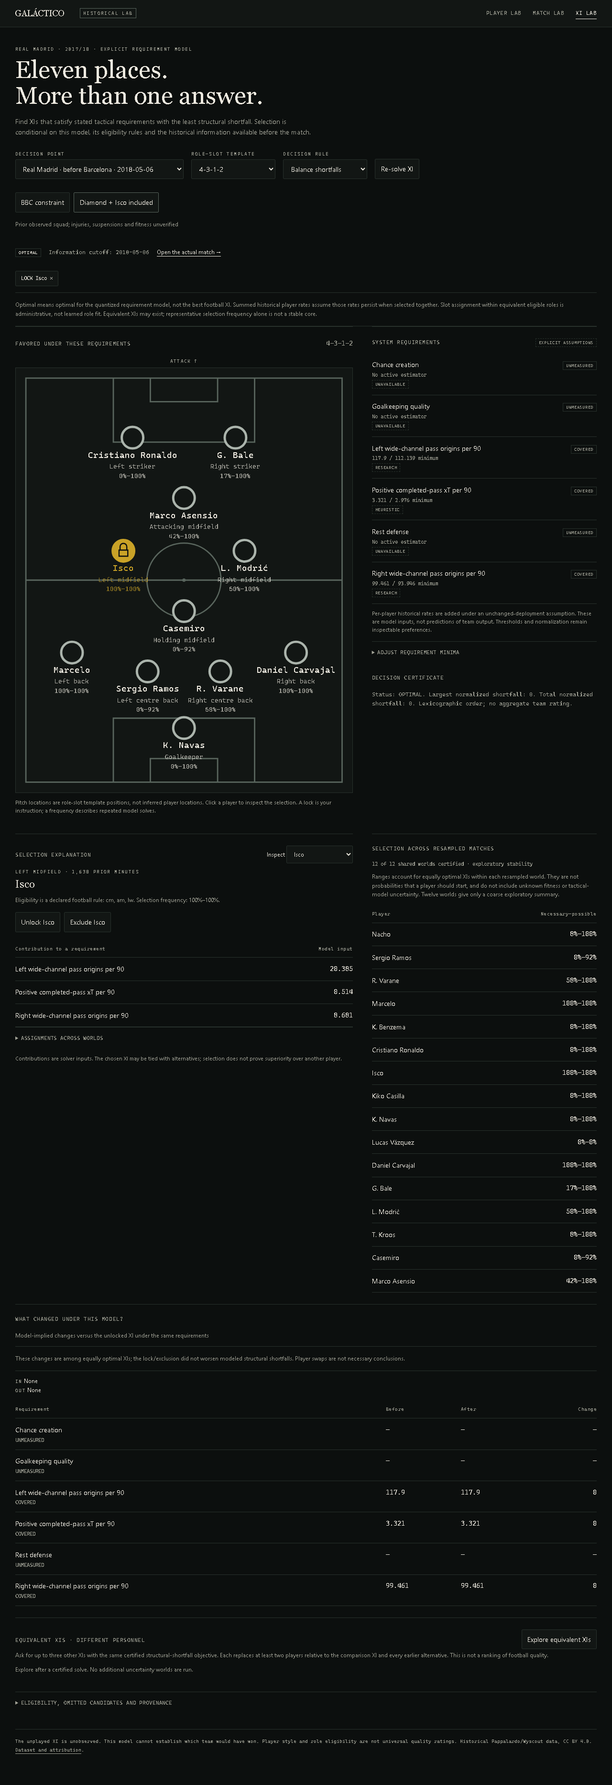
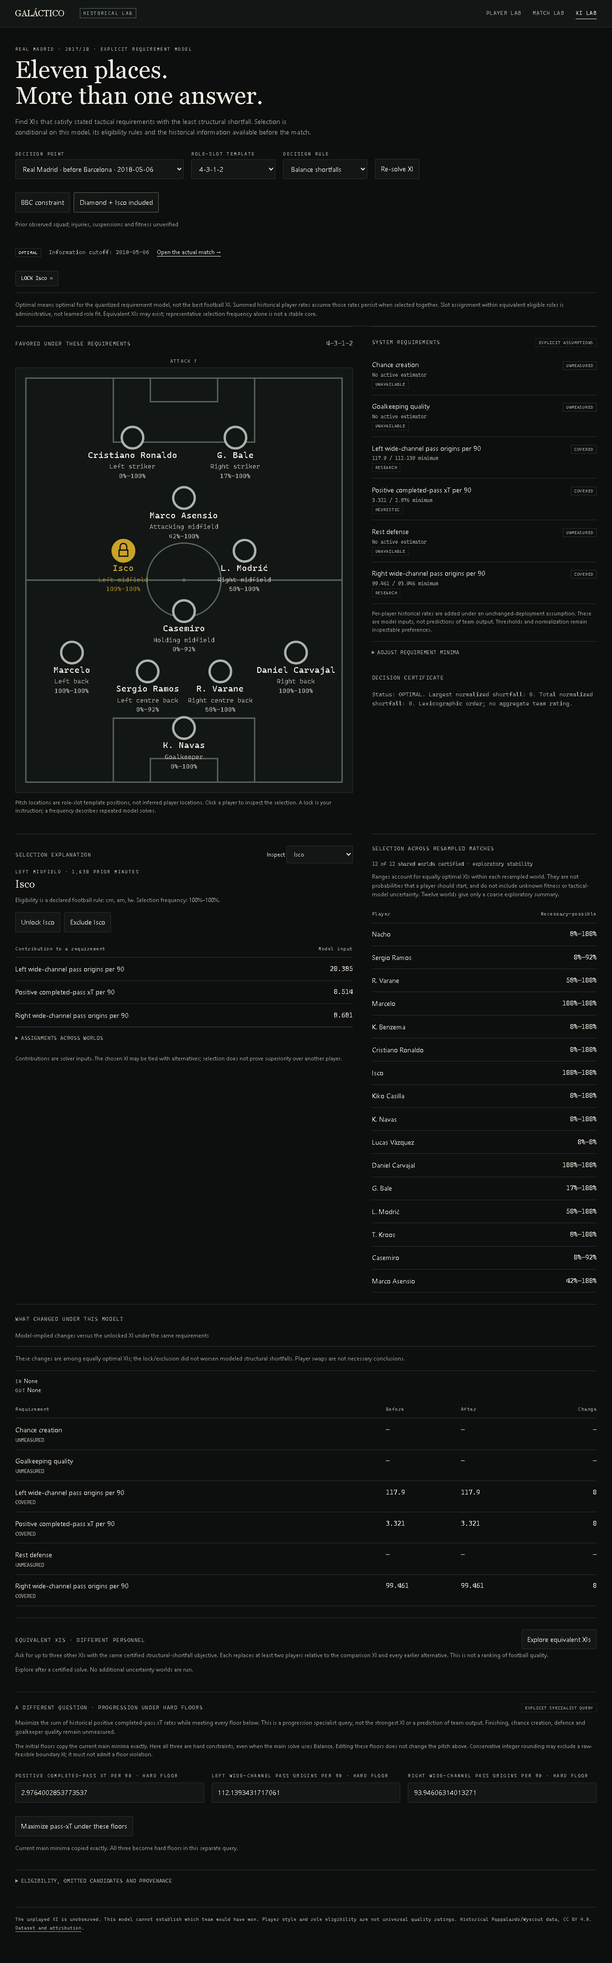
feat(web): ship explicit hard-floor progression explorer

diff --git a/web/xi.html b/web/xi.html
@@ -11,19 +11,56 @@
 <div class="split"><section class="panel selection-detail"><div class="panel-head"><h2>Selection explanation</h2><label class="small">Inspect <select id="candidate" aria-label="Inspect squad player"></select></label></div><div id="selected-detail" aria-live="polite"></div></section><section class="panel"><h2>Selection across resampled matches</h2><p id="world-count" class="progress-note">12 shared worlds · exploratory stability</p><p class="small subtle">Ranges account for equally optimal XIs within each resampled world. They are not probabilities that a player should start, and do not include unknown fitness or tactical-model uncertainty. Twelve worlds give only a coarse exploratory summary.</p><div id="frequencies"></div></section></div>
 <section id="changes-panel" class="panel hidden"><h2>What changed under this model?</h2><div id="changes"></div></section>
 <section id="alternatives-panel" class="panel" aria-labelledby="alternatives-title"><div class="panel-head"><h2 id="alternatives-title">Equivalent XIs · different personnel</h2><button id="explore-alternatives" disabled>Explore equivalent XIs</button></div><p class="small subtle">Ask for up to three other XIs with the same certified structural-shortfall objective. Each replaces at least two players relative to the comparison XI and every earlier alternative. This is not a ranking of football quality.</p><p id="alternatives-status" class="small subtle" role="status">Explore after a certified solve. No additional uncertainty worlds are run.</p><div id="alternatives-body" class="hidden"><p id="alternatives-claim" class="notice small"></p><p class="figure-note">The comparison XI below belongs to this exploration response. Tied solves may choose a different representative from the pitch above. Alternatives have no selection-frequency or superiority claim.</p><div id="alternatives-ledger" class="alternative-grid"></div><details><summary>Alternative search certificate and provenance</summary><pre id="alternatives-provenance"></pre></details></div></section>
+<section id="tradeoff-panel" class="panel" aria-labelledby="tradeoff-title">
+<div class="panel-head"><h2 id="tradeoff-title">A different question · progression under hard floors</h2><span class="badge heuristic">Explicit specialist query</span></div>
+<p class="small subtle">Maximize the sum of historical positive completed-pass xT rates while meeting every floor below. This is a progression specialist query, not the strongest XI or a prediction of team output. Finishing, chance creation, defence and goalkeeper quality remain unmeasured.</p>
+<p class="figure-note">The initial floors copy the current main minima exactly. Here all three are hard constraints, even when the main solve uses Balance. Editing these floors does not change the pitch above. Conservative integer rounding may exclude a raw-feasible boundary XI; it must not admit a floor violation.</p>
+<div id="tradeoff-inputs" class="toolbar tradeoff-controls"></div><button id="solve-tradeoff" disabled>Maximize pass-xT under these floors</button>
+<p id="tradeoff-status" class="small subtle tradeoff-status" role="status">Solve the main scenario before asking a hard-floor question.</p>
+<div id="tradeoff-body" class="hidden"><div class="status-line"><span id="tradeoff-solver-status" class="badge"></span><span id="tradeoff-certification" class="badge"></span></div>
+<p id="tradeoff-claim" class="notice small"></p><div id="tradeoff-objective" class="small"></div><p id="tradeoff-infeasible" class="notice small hidden"></p>
+<div class="split equal"><section><h3>Query-owned XI</h3><p class="figure-note">These assignments belong only to this response. They have no selection-frequency, general-quality or superiority claim.</p>
+<table id="tradeoff-roster" class="ledger"><caption class="sr-only">Hard-floor query role-slot assignments</caption><thead><tr><th>Slot</th><th>Player</th></tr></thead><tbody></tbody></table></section>
+<section><h3>Hard-floor ledger</h3><table id="tradeoff-requirements" class="ledger"><thead><tr><th>Requirement</th><th>Achieved ≈ / exact floor</th></tr></thead><tbody></tbody></table></section></div>
+<details><summary>Hard-floor query certificate and provenance</summary><p id="tradeoff-warnings" class="small subtle"></p><pre id="tradeoff-provenance"></pre></details></div></section>
 <details><summary>Eligibility, omitted candidates and provenance</summary><pre id="provenance"></pre></details><footer class="provenance">The unplayed XI is unobserved. This model cannot establish which team would have won. Player style and role eligibility are not universal quality ratings. Historical Pappalardo/Wyscout data, CC BY 4.0. <a href="https://doi.org/10.6084/m9.figshare.c.4415000">Dataset and attribution</a>.</footer></div></main>
 <script>
 const $=s=>document.querySelector(s),esc=v=>String(v??'').replace(/[&<>"']/g,c=>({'&':'&amp;','<':'&lt;','>':'&gt;','"':'&quot;',"'":'&#39;'}[c]));
 const num=(v,d=3)=>v===null||v===undefined||!Number.isFinite(Number(v))?'—':Number(v).toLocaleString(undefined,{maximumFractionDigits:d});
 const pct=v=>v==null?'—':num(v*100,0)+'%';
 async function api(url,body){const r=await fetch(url,body?{method:'POST',headers:{'Content-Type':'application/json'},body:JSON.stringify(body)}:undefined),d=await r.json();if(!r.ok)throw new Error(typeof d.detail==='string'?d.detail:JSON.stringify(d.detail??d));return d;}
-let result=null,scenarioMeta=null,selectedPlayer=null,locks=new Set(),excludes=new Set(),minimums={},busy=false,requestVersion=0,solvedInput=null,alternativeVersion=0,alternativeBusy=false,minimumsDirty=false;
+let result=null,scenarioMeta=null,selectedPlayer=null,locks=new Set(),excludes=new Set(),minimums={},busy=false,requestVersion=0,solvedInput=null,alternativeVersion=0,alternativeBusy=false,minimumsDirty=false,tradeoffVersion=0,tradeoffBusy=false;
 function updateAlternativeButton(){$('#explore-alternatives').disabled=busy||alternativeBusy||minimumsDirty||result?.solution_status!=='OPTIMAL'||!solvedInput;}
 function invalidateAlternatives(dirty=false){alternativeVersion++;alternativeBusy=false;minimumsDirty=dirty;$('#alternatives-body').classList.add('hidden');$('#alternatives-ledger').replaceChildren();$('#alternatives-provenance').textContent='';$('#alternatives-claim').textContent='';$('#alternatives-status').textContent=dirty?'Apply the edited minima and re-solve before exploring.':'Explore after a certified solve. No additional uncertainty worlds are run.';updateAlternativeButton();}
 function renderAlternatives(data){const search=data.provenance?.alternative_search||{},names=new Map((data.candidates||[]).map(p=>[Number(p.player_id),p.name]));for(const a of data.assignments||[])names.set(Number(a.player_id),a.name);const playerNames=ids=>(ids||[]).map(id=>esc(names.get(Number(id))||id)).join(', ')||'None';const rows=[{...data,comparison:true},...(data.alternatives||[])];$('#alternatives-status').textContent=(search.status||'Search status unavailable')+' · '+(search.returned??data.alternatives?.length??0)+' of '+(search.requested??3)+' requested alternatives returned.';$('#alternatives-claim').textContent=search.claim||'No search interpretation was supplied.';$('#alternatives-ledger').innerHTML=rows.map((xi,i)=>'<article class="alternative-xi" data-alternative="'+i+'" aria-labelledby="alternative-heading-'+i+'"><div class="eyebrow">'+(i===0?'Response baseline':'Equivalent objective · not a ranking')+'</div><h3 id="alternative-heading-'+i+'">'+(i===0?'Comparison XI':'Alternative '+i)+'</h3><span class="badge">'+esc(xi.solution_status)+'</span><p class="small mono alternative-objective">Shortfall vector '+esc(JSON.stringify(xi.objective_vector||[]))+'</p>'+(i===0?'<p class="small subtle alternative-delta">All personnel changes are measured against this XI.</p>':'<p class="small alternative-delta"><span class="label">In</span> '+playerNames(xi.incoming_player_ids)+'<br><span class="label">Out</span> '+playerNames(xi.outgoing_player_ids)+'<br><span class="subtle">'+esc(xi.player_changes)+' players replaced</span></p>')+'<table class="ledger alternative-roster"><caption class="sr-only">'+(i===0?'Comparison XI':'Alternative '+i)+' role-slot assignments</caption><thead><tr><th>Slot</th><th>Player</th></tr></thead><tbody>'+(xi.assignments||[]).map(a=>'<tr data-player="'+esc(a.player_id)+'"><td>'+esc(a.slot_label||a.slot_id)+'</td><td>'+esc(a.name)+(a.locked?' <span class="badge">Locked</span>':'')+'</td></tr>').join('')+'</tbody></table><h4 class="label">Requirement inputs · not team predictions</h4><table class="ledger alternative-requirements"><thead><tr><th>Requirement</th><th>Achieved / min<br>Shortfall</th></tr></thead><tbody>'+(xi.requirements||[]).map(r=>'<tr><td>'+esc(r.label)+'<div class="detail">'+esc(r.status)+'</div></td><td class="mono">'+(r.achieved==null?(r.status==='UNMEASURED'?'Unmeasured':'Not evaluated'):num(r.achieved,6)+' / '+num(r.minimum,6)+'<br>'+num(r.deficit,6))+'</td></tr>').join('')+'</tbody></table></article>').join('');$('#alternatives-provenance').textContent=JSON.stringify({provenance:data.provenance,baseline:{assignments:data.assignments,requirements:data.requirements,objective_vector:data.objective_vector},alternatives:data.alternatives},null,2);$('#alternatives-body').classList.remove('hidden');}
 async function exploreAlternatives(){if(busy||alternativeBusy||minimumsDirty||!solvedInput||result?.solution_status!=='OPTIMAL')return;const version=++alternativeVersion,solveVersion=requestVersion;alternativeBusy=true;updateAlternativeButton();$('#alternatives-status').textContent='Searching the certified optimum for personnel-diverse witnesses…';$('#alternatives-body').classList.add('hidden');try{const data=await api('/api/xi/alternatives',{...solvedInput,alternative_count:3,minimum_player_changes:2});if(version!==alternativeVersion||solveVersion!==requestVersion)return;renderAlternatives(data);}catch(error){if(version!==alternativeVersion||solveVersion!==requestVersion)return;$('#alternatives-status').textContent='Alternatives unavailable: '+error.message;}finally{if(version===alternativeVersion){alternativeBusy=false;updateAlternativeButton();}}}
 $('#explore-alternatives').onclick=exploreAlternatives;
-$('#minimum-inputs').addEventListener('input',()=>invalidateAlternatives(true));
+const tradeoffRequirements=['progression','left_pass_origins','right_pass_origins'];
+function tradeoffInputsValid(){const inputs=[...$('#tradeoff-inputs').querySelectorAll('input')];return inputs.length===tradeoffRequirements.length&&inputs.every(input=>input.value.trim()!==''&&input.validity.valid&&Number.isFinite(input.valueAsNumber));}
+function updateTradeoffButton(){$('#solve-tradeoff').disabled=busy||tradeoffBusy||minimumsDirty||!solvedInput||!tradeoffInputsValid();}
+function invalidateTradeoff(message='Floors changed. Run the query again to evaluate this instruction.'){tradeoffVersion++;tradeoffBusy=false;$('#tradeoff-body').classList.add('hidden');$('#tradeoff-roster tbody').replaceChildren();$('#tradeoff-requirements tbody').replaceChildren();$('#tradeoff-provenance').textContent='';$('#tradeoff-status').textContent=message;updateTradeoffButton();}
+function resetTradeoffInputs(){const rows=new Map((result.requirements||[]).map(r=>[r.requirement_id,r]));$('#tradeoff-inputs').innerHTML=tradeoffRequirements.map(id=>{const r=rows.get(id);return '<label class="control"><span class="label">'+esc(r?.label||id)+' · hard floor</span><input type="number" min="0" max="1000" step="any" required data-floor="'+esc(id)+'" value="'+esc(r?.minimum??'')+'"></label>';}).join('');invalidateTradeoff('Current main minima copied exactly. All three become hard floors in this separate query.');}
+function renderTradeoff(data){
+ const objective=data.objective||{},rows=data.assignments||[];
+ $('#tradeoff-solver-status').textContent=data.solution_status;
+ $('#tradeoff-certification').textContent=objective.certification||'NO_SOLUTION';
+ $('#tradeoff-claim').textContent=data.claim||'A specialist progression query under explicit hard floors; not a football-quality ranking.';
+ $('#tradeoff-status').textContent=data.solution_status+' · this response does not replace the main XI.';
+ const certificateRows=[['Raw historical-rate sum',objective.achieved,'Not evaluated'],['Quantized objective',objective.quantized_value,'Not evaluated'],['Quantized upper bound',objective.quantized_upper_bound,'Unavailable'],['Quantization-only rounding bound',objective.raw_rounding_error_bound,'Unavailable']];
+ $('#tradeoff-objective').innerHTML='<p class="mono">'+esc(objective.direction||'MAXIMIZE')+' '+esc(objective.label||objective.requirement_id||'Progression')+' <span class="subtle">('+esc(objective.metric||'see provenance')+')</span></p><dl style="display:grid;grid-template-columns:repeat(auto-fit,minmax(135px,1fr));gap:1rem;margin:1rem 0">'+certificateRows.map(([label,value,missing])=>'<div><dt class="label">'+esc(label)+'</dt><dd class="mono" style="margin:.4rem 0 0">'+(value==null?missing:'≈ '+num(value,6))+'</dd></div>').join('')+'</dl><p class="figure-note">Displays rounded to six decimals; exact values are in the certificate below. The rounding bound covers quantization only, not statistical uncertainty. OPTIMAL certifies the integer model, not football superiority.</p>';
+ $('#tradeoff-warnings').textContent=(data.warnings||[]).join(' ');
+ const reasons=data.infeasibility_reasons||[];
+ $('#tradeoff-infeasible').classList.toggle('hidden',rows.length>0);
+ $('#tradeoff-infeasible').textContent=reasons.join(' ')||(data.solution_status==='INFEASIBLE'?'No XI satisfies the conservative integer model of these hard floors and eligibility instructions. No floor was relaxed.':'No solution was returned; feasibility was not established.');
+ $('#tradeoff-roster tbody').innerHTML=rows.map(a=>'<tr data-player="'+esc(a.player_id)+'"><td>'+esc(a.slot_label||a.slot_id)+'</td><td>'+esc(a.name)+(a.locked?' <span class="badge">Locked</span>':'')+'</td></tr>').join('');
+ $('#tradeoff-requirements tbody').innerHTML=(data.requirements||[]).map(r=>'<tr data-requirement="'+esc(r.requirement_id)+'"><td>'+esc(r.label)+'<div class="detail">'+esc(r.status)+'</div><span class="badge">'+esc(r.evidence_class)+(r.hard?' · hard floor':'')+'</span></td><td class="mono">'+(r.achieved==null?(r.status==='UNMEASURED'?'Unmeasured':'Not evaluated'):'≈ '+num(r.achieved,6))+(r.status==='UNMEASURED'?'':' / <span class="tradeoff-floor">'+esc(String(r.minimum))+'</span>')+'</td></tr>').join('');
+ $('#tradeoff-provenance').textContent=JSON.stringify({formation:data.formation,floors:data.floors,objective:data.objective,provenance:data.provenance,requirements:data.requirements,assignments:data.assignments,omitted_candidates:data.omitted_candidates},null,2);
+ $('#tradeoff-body').classList.remove('hidden');
+}
+async function solveTradeoff(){if(busy||tradeoffBusy||minimumsDirty||!solvedInput||!tradeoffInputsValid())return;const version=++tradeoffVersion,solveVersion=requestVersion,floors={};for(const input of $('#tradeoff-inputs').querySelectorAll('input'))floors[input.dataset.floor]=input.valueAsNumber;const inputs={scenario_id:solvedInput.scenario_id,formation:solvedInput.formation,locks:[...solvedInput.locks],excludes:[...solvedInput.excludes],floors};tradeoffBusy=true;updateTradeoffButton();$('#tradeoff-body').classList.add('hidden');$('#tradeoff-roster tbody').replaceChildren();$('#tradeoff-status').textContent='Solving the progression query under all three hard floors…';try{const data=await api('/api/xi/tradeoff',inputs);if(version!==tradeoffVersion||solveVersion!==requestVersion)return;renderTradeoff(data);}catch(error){if(version!==tradeoffVersion||solveVersion!==requestVersion)return;$('#tradeoff-status').textContent='Hard-floor query unavailable: '+error.message;}finally{if(version===tradeoffVersion){tradeoffBusy=false;updateTradeoffButton();}}}
+$('#solve-tradeoff').onclick=solveTradeoff;
+$('#tradeoff-inputs').addEventListener('input',()=>invalidateTradeoff());
+$('#minimum-inputs').addEventListener('input',()=>{invalidateAlternatives(true);invalidateTradeoff('Apply the edited main minima and re-solve before asking a hard-floor question.');});
 function frequencyLabel(f){if(!f)return 'Not resampled';if(f.necessary_frequency!=null&&f.possible_frequency!=null)return pct(f.necessary_frequency)+'–'+pct(f.possible_frequency);return pct(f.selection_frequency);}
 function candidate(id){return (result?.candidates||[]).find(p=>Number(p.player_id)===Number(id));}
 function selectPlayer(id){selectedPlayer=Number(id);$('#candidate').value=String(id);renderPitch();renderDetail();}
@@ -38,7 +75,7 @@ function renderDetail(){const p=candidate(selectedPlayer);if(!p){$('#selected-de
 function renderConstraints(){renderPresets();const make=(id,type)=>'<button data-id="'+id+'" data-kind="'+type+'">'+type+' '+esc(candidate(id)?.name||id)+' ×</button>';$('#constraints').innerHTML=[...locks].map(id=>make(id,'LOCK')).concat([...excludes].map(id=>make(id,'EXCLUDE'))).join('');$('#constraints').querySelectorAll('button').forEach(b=>b.onclick=()=>{(b.dataset.kind==='LOCK'?locks:excludes).delete(Number(b.dataset.id));solve();});}
 function renderChanges(){const changes=result.what_changed;if(!changes){$('#changes-panel').classList.add('hidden');return;}$('#changes-panel').classList.remove('hidden');if(changes.comparison_available===false){$('#changes').innerHTML='<p class="notice small">'+esc(changes.claim)+'</p>';return;}const names=ids=>(ids||[]).map(id=>candidate(id)?.name||id).map(esc).join(', ')||'None';$('#changes').innerHTML='<p class="small subtle">'+esc(changes.claim||'Model-implied changes versus the unlocked XI under the same requirements.')+'</p>'+(changes.tie_warning?'<p class="notice small">'+esc(changes.tie_warning)+'</p>':'')+'<p class="small"><span class="label">In</span> '+names(changes.in)+'<br><span class="label">Out</span> '+names(changes.out)+'</p><table class="ledger"><thead><tr><th>Requirement</th><th>Before</th><th>After</th><th>Change</th></tr></thead><tbody>'+(changes.requirements||[]).map(r=>'<tr><td>'+esc(r.label)+'<div class="detail">'+esc(r.status)+'</div></td><td class="mono">'+num(r.before)+'</td><td class="mono">'+num(r.after)+'</td><td class="mono">'+(r.delta>0?'+':'')+num(r.delta)+'</td></tr>').join('')+'</tbody></table>';}
 function render(){const rows=result.assignments||[];$('#solver-status').textContent=result.solution_status;$('#cutoff').textContent='Information cutoff: '+(result.scenario?.cutoff||'See provenance');$('#actual-match').href=result.match_url||'/match';$('#candidate').innerHTML=(result.candidates||[]).map(p=>'<option value="'+p.player_id+'">'+esc(p.name)+'</option>').join('');if(!candidate(selectedPlayer))selectedPlayer=rows[0]?.player_id??result.candidates?.[0]?.player_id;$('#candidate').value=String(selectedPlayer);$('#warnings').textContent=(result.warnings||[]).join(' ')||'Requirements express explicit preferences. Injury, suspension and fitness status remain unverified.';$('#infeasible').classList.toggle('hidden',result.solution_status!=='INFEASIBLE');$('#infeasible').textContent=(result.infeasibility_reasons||[]).join(' ')||'No XI satisfies the specified eligibility, locks and hard requirements. No constraints were silently relaxed.';renderPitch();renderRequirements();renderFrequencies();renderDetail();renderConstraints();renderChanges();$('#provenance').textContent=JSON.stringify({provenance:result.provenance,requirements:result.requirements,omitted_candidates:result.omitted_candidates,eligibility:result.candidates?.map(p=>({player_id:p.player_id,name:p.name,role_rules:p.role_rules}))},null,2);$('#xi-body').classList.remove('hidden');}
-async function solve(){const version=++requestVersion;busy=true;solvedInput=null;invalidateAlternatives();$('#solve').disabled=true;$('#solve').textContent='Solving…';$('#status').classList.remove('hidden','error');$('#status').textContent='Fitting the historical snapshot and solving shared-match worlds. The first solve can take a moment…';$('#xi-body').classList.add('hidden');try{const inputs={scenario_id:$('#scenario').value,formation:$('#formation').value,mode:$('#mode').value,locks:[...locks],excludes:[...excludes],minimums:{...minimums}};const d=await api('/api/xi/solve',{...inputs,bootstrap_worlds:12});if(version!==requestVersion)return;result=d;solvedInput=inputs;busy=false;render();updateAlternativeButton();$('#status').classList.add('hidden');history.replaceState(null,'','/xi?scenario='+encodeURIComponent($('#scenario').value));}catch(e){if(version!==requestVersion)return;$('#status').textContent='The requested XI could not be solved: '+e.message;$('#status').classList.add('error');}finally{if(version===requestVersion){busy=false;$('#solve').disabled=false;$('#solve').textContent='Re-solve XI';updateAlternativeButton();}}}
+async function solve(){const version=++requestVersion;busy=true;solvedInput=null;invalidateAlternatives();invalidateTradeoff('Solving the main scenario. This will reset the hard floors to its minima.');$('#solve').disabled=true;$('#solve').textContent='Solving…';$('#status').classList.remove('hidden','error');$('#status').textContent='Fitting the historical snapshot and solving shared-match worlds. The first solve can take a moment…';$('#xi-body').classList.add('hidden');try{const inputs={scenario_id:$('#scenario').value,formation:$('#formation').value,mode:$('#mode').value,locks:[...locks],excludes:[...excludes],minimums:{...minimums}};const d=await api('/api/xi/solve',{...inputs,bootstrap_worlds:12});if(version!==requestVersion)return;result=d;solvedInput=inputs;busy=false;render();resetTradeoffInputs();updateAlternativeButton();$('#status').classList.add('hidden');history.replaceState(null,'','/xi?scenario='+encodeURIComponent($('#scenario').value));}catch(e){if(version!==requestVersion)return;$('#status').textContent='The requested XI could not be solved: '+e.message;$('#status').classList.add('error');}finally{if(version===requestVersion){busy=false;$('#solve').disabled=false;$('#solve').textContent='Re-solve XI';updateAlternativeButton();updateTradeoffButton();}}}
 $('#solve').onclick=solve;$('#candidate').onchange=e=>selectPlayer(e.target.value);$('#scenario').onchange=()=>{locks.clear();excludes.clear();minimums={};selectedPlayer=null;solve();};$('#formation').onchange=solve;$('#mode').onchange=solve;$('#apply-minima').onclick=()=>{minimums={};for(const input of $('#minimum-inputs').querySelectorAll('input')){if(!input.reportValidity())return;minimums[input.dataset.requirement]=Number(input.value);}solve();};
 (async()=>{try{scenarioMeta=await api('/api/xi/scenarios');const rows=scenarioMeta.scenarios||[];if(!rows.length)throw new Error('No historical scenarios are available.');$('#scenario').innerHTML=rows.map(s=>'<option value="'+esc(s.scenario_id)+'">'+esc(s.label+' · '+s.cutoff)+'</option>').join('');$('#formation').innerHTML=(scenarioMeta.formations||[]).map(f=>'<option>'+esc(f)+'</option>').join('');$('#availability').textContent=scenarioMeta.availability||'';const query=new URLSearchParams(location.search),matchId=query.get('match_id'),requested=query.get('scenario');const chosen=rows.find(s=>s.scenario_id===requested)||rows.find(s=>String(s.match_id)===matchId)||rows.find(s=>s.scenario_id===scenarioMeta.default_scenario)||rows[0];$('#scenario').value=chosen.scenario_id;if(matchId&&!rows.some(s=>String(s.match_id)===matchId))$('#availability').textContent+=' This match has no prepared XI scenario; showing '+chosen.label+'.';await solve();}catch(e){$('#status').textContent=e.message;$('#status').classList.add('error');}})();
 </script></body></html>

diff --git a/e2e/tradeoff.spec.js b/e2e/tradeoff.spec.js
@@ -1,0 +1,117 @@
+const { test, expect } = require('@playwright/test');
+const BASE = process.env.GALACTICO_URL || 'http://127.0.0.1:8111';
+
+test('hard-floor progression query renders its own certificate and rejects obsolete responses', async ({ page }, testInfo) => {
+  test.setTimeout(240000);
+  const errors = [];
+  page.on('pageerror', error => errors.push(error.message));
+  // Real historical estimates and real optimization; no bootstrap is needed here.
+  await page.route('**/api/xi/solve', async route => {
+    await route.continue({ postData: JSON.stringify({ ...route.request().postDataJSON(), bootstrap_worlds: 0 }) });
+  });
+  await page.goto(BASE + '/xi');
+  await expect(page.locator('#xi-body')).toBeVisible({ timeout: 150000 });
+  await expect(page.locator('#solve-tradeoff')).toBeEnabled();
+  const mainPlayers = await page.locator('#xi-pitch .player').evaluateAll(nodes => nodes.map(node => node.dataset.player));
+  const originalFloors = {};
+  for (const input of await page.locator('#tradeoff-inputs input').all()) {
+    const key = await input.getAttribute('data-floor');
+    const value = await input.inputValue();
+    originalFloors[key] = Number(value);
+    expect(value).toBe(await page.locator('#minimum-inputs [data-requirement="' + key + '"]').inputValue());
+  }
+  expect(Object.keys(originalFloors).sort()).toEqual(['left_pass_origins', 'progression', 'right_pass_origins']);
+
+  async function query() {
+    const responsePromise = page.waitForResponse(response => response.url().endsWith('/api/xi/tradeoff'));
+    await page.locator('#solve-tradeoff').click();
+    const response = await responsePromise;
+    expect(response.ok()).toBe(true);
+    return { data: await response.json(), request: response.request().postDataJSON() };
+  }
+  const { data, request } = await query();
+  expect(request.floors).toEqual(originalFloors);
+  expect(Object.keys(request).sort()).toEqual(['excludes', 'floors', 'formation', 'locks', 'scenario_id']);
+  expect(data.solution_status).toBe('OPTIMAL');
+  expect(data.objective.certification).toBe('QUANTIZED_OPTIMAL');
+  await expect(page.locator('#tradeoff-body')).toBeVisible();
+  await expect(page.locator('#tradeoff-solver-status')).toHaveText(data.solution_status);
+  await expect(page.locator('#tradeoff-certification')).toHaveText(data.objective.certification);
+  await expect(page.locator('#tradeoff-objective')).toContainText(data.objective.label);
+  await expect(page.locator('#tradeoff-objective')).toContainText('MAXIMIZE');
+  await expect(page.locator('#tradeoff-roster tbody tr')).toHaveCount(11);
+  expect(await page.locator('#tradeoff-roster tbody tr').evaluateAll(rows => rows.map(row => Number(row.dataset.player))))
+    .toEqual(data.assignments.map(assignment => assignment.player_id));
+  for (const requirement of data.requirements) {
+    const row = page.locator('#tradeoff-requirements [data-requirement="' + requirement.requirement_id + '"]');
+    await expect(row).toContainText(requirement.status);
+    if (requirement.status === 'UNMEASURED') {
+      await expect(row).toContainText('Unmeasured');
+    } else {
+      expect(requirement.hard).toBe(true);
+      expect(requirement.minimum).toBe(request.floors[requirement.requirement_id]);
+      expect(requirement.achieved).toBeGreaterThanOrEqual(requirement.minimum);
+      await expect(row.locator('.tradeoff-floor')).toHaveText(String(requirement.minimum));
+    }
+  }
+  expect(await page.locator('#xi-pitch .player').evaluateAll(nodes => nodes.map(node => node.dataset.player))).toEqual(mainPlayers);
+  await expect(page.locator('#tradeoff-body')).not.toContainText('Necessary–possible');
+  expect(await page.locator('#tradeoff-body .ledger td').evaluateAll(nodes => nodes.every(node => getComputedStyle(node).color !== 'rgb(201, 162, 39)'))).toBe(true);
+  await page.locator('#tradeoff-panel').screenshot({ path: testInfo.outputPath('xi-hard-floor-query.png') });
+  await page.setViewportSize({ width: 390, height: 844 });
+  expect(await page.evaluate(() => document.documentElement.scrollWidth > innerWidth + 1)).toBe(false);
+  await page.locator('#tradeoff-panel').screenshot({ path: testInfo.outputPath('xi-hard-floor-query-mobile.png') });
+
+  // No threshold relaxation: a deliberately impossible floor has no XI to compare.
+  await page.locator('[data-floor="progression"]').fill('1000');
+  await expect(page.locator('#tradeoff-body')).toBeHidden();
+  const impossible = await query();
+  expect(impossible.request.floors.progression).toBe(1000);
+  expect(impossible.data.solution_status).toBe('INFEASIBLE');
+  await expect(page.locator('#tradeoff-solver-status')).toHaveText('INFEASIBLE');
+  await expect(page.locator('#tradeoff-roster tbody tr')).toHaveCount(0);
+  await expect(page.locator('#tradeoff-requirements [data-requirement="progression"] .tradeoff-floor')).toHaveText('1000');
+  await expect(page.locator('#tradeoff-requirements [data-requirement="progression"]')).toContainText('Not evaluated');
+  await page.locator('[data-floor="progression"]').fill(String(originalFloors.progression));
+
+  async function delayedQuery(change) {
+    let release;
+    let markIntercepted;
+    const intercepted = new Promise(resolve => { markIntercepted = resolve; });
+    const handler = async route => {
+      const response = await route.fetch();
+      await new Promise(resolve => { release = resolve; markIntercepted(); });
+      await route.fulfill({ response });
+    };
+    await page.route('**/api/xi/tradeoff', handler);
+    const responsePromise = page.waitForResponse(response => response.url().endsWith('/api/xi/tradeoff'));
+    await page.locator('#solve-tradeoff').click();
+    await intercepted;
+    await change();
+    release();
+    await responsePromise;
+    await expect(page.locator('#tradeoff-body')).toBeHidden();
+    await expect(page.locator('#tradeoff-roster tbody tr')).toHaveCount(0);
+    await page.unroute('**/api/xi/tradeoff', handler);
+  }
+  // A dedicated floor edit invalidates an in-flight result without a main solve.
+  await delayedQuery(async () => {
+    await page.locator('[data-floor="left_pass_origins"]').fill('0');
+  });
+  await page.locator('[data-floor="left_pass_origins"]').fill(String(originalFloors.left_pass_origins));
+  // A main eligibility/lock change must also discard the response and reset floors.
+  await delayedQuery(async () => {
+    await page.locator('#lock-player').click();
+    await expect(page.locator('#xi-body')).toBeVisible({ timeout: 120000 });
+    await expect(page.locator('#constraints')).toContainText('LOCK');
+  });
+  for (const [key, value] of Object.entries(originalFloors)) {
+    expect(Number(await page.locator('[data-floor="' + key + '"]').inputValue())).toBe(value);
+  }
+  // Dirty parent minima cannot accidentally be mixed with the displayed snapshot.
+  await page.getByText('Adjust requirement minima', { exact: true }).click();
+  await page.locator('#minimum-inputs input').first().fill('0');
+  await expect(page.locator('#solve-tradeoff')).toBeDisabled();
+  await expect(page.locator('#tradeoff-status')).toContainText('Apply the edited main minima');
+  expect(errors).toEqual([]);
+});

diff --git a/web/labs.css b/web/labs.css
@@ -5,4 +5,5 @@
 @media(min-width:1200px){.alternative-grid{grid-template-columns:repeat(4,minmax(0,1fr));gap:1.4rem}}
 @media(max-width:650px){.alternative-grid{grid-template-columns:minmax(0,1fr);gap:1.6rem}.alternative-delta{min-height:0}.alternative-roster td,.alternative-requirements td{font-size:11px}}
 .control{grid-template-columns:minmax(0,1fr)}.control select,.control input{min-width:0;max-width:100%;width:100%}
+.tradeoff-controls .control{flex:1 1 16rem;min-width:0}.tradeoff-controls .label{line-height:1.6}.tradeoff-status{margin-top:1rem}#tradeoff-panel{overflow-wrap:anywhere}#tradeoff-roster td:first-child,#tradeoff-requirements td:first-child{padding-right:1rem}#tradeoff-requirements td:last-child{max-width:14rem}#tradeoff-objective{line-height:1.9}#tradeoff-panel .ledger td{font-size:12px}#tradeoff-panel h3{font-size:1.2rem}
 @media(max-width:850px){header{padding:.8rem 1rem;gap:.7rem;flex-wrap:wrap}header nav{gap:.9rem;font-size:9px}.lab-tag{font-size:8px}main{padding:1.7rem 1rem 3rem}.split,.equal{grid-template-columns:1fr;gap:1rem}.control.wide{min-width:0;flex:1 1 100%}.score-header{gap:.7rem}.score-header .score{font-size:2rem}.score-header h1{font-size:1.5rem}.pitch{max-height:650px}.toolbar{gap:.7rem}.control{min-width:8rem}.ledger td{font-size:12px}}

diff --git a/docs/ASTRA-CHECKPOINT.md b/docs/ASTRA-CHECKPOINT.md
@@ -2,13 +2,25 @@
 
 ## CURRENT COMMIT
 
-Current entry: clean `946bf4a`, verified on 13 September; resumed 17 September.
+20 September: progression-under-hard-floors core/API is committed as `d99892b`;
+browser/docs release is HEAD after this update. All implementation is integrated:
+374 Python tests and 13 Playwright tests passed, Ruff/licensing clean, final
+desktop/mobile screenshots inspected. Verify final push/CI using commands below.
+Entry was clean, pushed `47ff5ae`, whose CI `35297823998` passed. E-08 stays closed.
+
+Recovery history: disk filled on 18 September and truncated API/domain/XI HTML
+before any new commit. All three were restored exactly from HEAD via apply_patch
+before reapplying edits; no files were deleted. More than 14 GB was free at the
+final verification. Disk interruption and agent usage boundaries left no missing
+implementation. Root independently verified and integrated all recovered work.
+
+Earlier entry: clean `946bf4a`, verified on 13 September; resumed 17 September.
 E-08 protocol `68454bf` was committed/pushed before errors were evaluated.
 History implementation `b5b1fe9` and evaluator/CLI `61fe186` are pushed to main.
 Do not amend E-07 or promote aggregate findings into individual/decision gates.
 E-08 completed: NOT_ESTABLISHED, context-only selected; published/pushed `4ce4d5d`.
 Code CI `35263719118` passed both jobs. Equivalent-XI core/API is `abe548c`;
-browser/docs release is HEAD after this update. Verify final push/CI below.
+browser/docs release `9207731` and screenshot refresh `47ff5ae` passed CI.
 
 Follow-through: `8f6f65a` implements E-07's research pipeline; protocol `1de6939`
 was pushed before evaluation. Linux mobile repair `b4c60cb` is also pushed, and
@@ -76,6 +88,19 @@ No credentials or proprietary data are needed or committed.
   three witnesses, each replacing two players, under original nonzero minima.
   Delayed-response/lock invalidation, dirty-minima guard and mobile layout tested.
   Screenshots 13/14 manually inspected. No alternative receives a quality rank.
+- Distinct `/api/xi/tradeoff` maximizes historical pass-xT under three explicit
+  hard floors. Exact-input Fraction floor/ceil constraints guarantee raw floors;
+  boundary-feasible raw XIs can be excluded. Independent objective coefficients,
+  integer bounds, numerical allowances, source hashes and typed certificates.
+- Independent oracle covers 36 randomized instances, exact-number boundaries,
+  monotonicity, eligibility/locks/missingness and actual Madrid tightening floors.
+  Fresh review independently ran 37 core/oracle tests. Prior-solve certificates
+  are stripped from active provenance, retained only as source input.
+- Separate browser XI/floor ledger, readable rounded summaries with exact
+  certificates, no inherited main-pitch frequencies. Default/impossible query,
+  stale floor-edit and lock replies, dirty minima, 390px and gold checks passed.
+  Screenshots 15/16 and refreshed 11/12 manually inspected. Numeric-overflow
+  request validation now returns 422, not a serialization failure.
 
 ## CURRENT STATE MAP
 
@@ -89,7 +114,12 @@ No credentials or proprietary data are needed or committed.
 
 ## IN PROGRESS
 
-No unfinished implementation in this milestone. Full local verification passed
+No unfinished implementation. **374 local Python tests and 13 Playwright tests**
+passed on 20 September, plus Ruff/licensing. All recovery/council/adversarial results
+are integrated. Final push/CI is the only remaining handoff check if resuming
+before it completes; do not rebuild the feature or reopen E-08.
+
+The PREVIOUS equivalent-XI milestone completed. Full local verification passed
 **308 Python tests** and **12 Playwright tests**; Ruff clean. The additional oracle
 checks both lexicographic stages, pairwise diversity and conditional exhaustion.
 One initial test sat on an integer-rounding boundary; its eligibility fixture was
@@ -135,7 +165,7 @@ To run the committed product from the prepared workspace:
 ```powershell
 uv run ruff check galactico tests
 uv run pytest -q
-npx playwright test e2e/smoke.spec.js e2e/labs.spec.js e2e/alternatives.spec.js
+npx playwright test e2e/smoke.spec.js e2e/labs.spec.js e2e/alternatives.spec.js e2e/tradeoff.spec.js
 uv run python scripts/check_licensing.py
 git diff --check
 git status --short
@@ -182,14 +212,17 @@ that did not themselves pass the later evaluation floor.
 `galactico/optimization/historical.py`: deployment transport, sample/availability
 limits and fixed-xT uncertainty require research, not undocumented coefficients.
 `docs/research/XI-EQUIVALENT-ALTERNATIVES.md`, `galactico/optimization/xi/solver.py`,
-`web/xi.html`: exact diverse-equivalence exploration is complete. A possible next
-product increment is explicit epsilon/Pareto exploration, but it needs separately
-declared tradeoffs; do not label current equality witnesses Pareto or robust.
+`web/xi.html`: exact diverse-equivalence exploration is complete.
+`docs/research/XI-PROGRESSION-UNDER-FLOORS.md`, `galactico/optimization/xi/tradeoffs.py`,
+`tests/test_tradeoff_oracle.py`, `e2e/tradeoff.spec.js`: the separate epsilon-constraint
+point query is now complete too. Neither feature certifies a full Pareto frontier,
+robustness or general football utility. Future policy comparisons/frontier work
+must declare their additional decision claim, not silently change these solvers.
 `galactico/match_lab/model.py`: team descriptors can feed an opponent requirement
 experiment only after a reliability/meaning audit. No automatic opponent adjustment.
 
 ## AGENT RESULTS NOT YET INTEGRATED
 
-None. E-08 council/code/artifact review and equivalent-XI core/API/UI work are
-integrated. Several agents hit usage boundaries; root completed testing, repaired
-the unfinished fixture, inspected screenshots and owns final push/CI verification.
+None. E-08, equivalent-XI and hard-floor query council/core/API/UI/oracle work is
+integrated. Recovery agents' work and fresh release review are complete. Root owns
+the final push/CI check; no agent retains an exclusive unfinished implementation.

diff --git a/README.md b/README.md
@@ -14,9 +14,9 @@ Three connected historical workstations now run locally:
 
 - **Player Lab** — five surviving season constructs, with shared-match uncertainty and evidence gates.
 - **Match Lab** — actual lineups, key/tactical timelines, positive pass-xT flow, shot locations, inferred passing networks and player-match contribution vectors.
-- **XI Lab** — exact assignment under explicit requirements, structural deficits, lock/exclude/reoptimize, tie-aware stability and personnel-diverse equivalent XIs. Two pre-match Madrid scenarios support 4-3-3 and 4-3-1-2, including explicit BBC and Isco constraints.
+- **XI Lab** — exact assignment under explicit requirements, structural deficits, lock/exclude/reoptimize, tie-aware stability, equivalent XIs and a separate progression-under-hard-floors query. Two pre-match Madrid scenarios support 4-3-3 and 4-3-1-2, including explicit BBC and Isco constraints.
 
-XI Lab does **not** identify the best football XI. It finds feasible XIs with the
+XI Lab does **not** identify the best football XI. Its default solve finds XIs with the
 least shortfall against declared progression and pass-origin requirements.
 Thresholds and eligibility are inspectable rules; finishing, defensive structure,
 goalkeeping quality and fitness are not modeled.
@@ -27,6 +27,14 @@ Click **Explore equivalent XIs** to inspect different personnel with the same
 certified shortfall objective. Each alternative replaces at least two players;
 the search is not a ranking or exhaustive catalogue of every optimum.
 [Search contract](docs/research/XI-EQUIVALENT-ALTERNATIVES.md)
+
+Ask **Maximize pass-xT under these floors** for a different, deliberately narrow
+question: how much summed historical passing progression can this squad accommodate
+while preserving your explicit hard floors? Its own XI, floor ledger and maximizing
+certificate stay separate from the main pitch and its uncertainty. Finishing,
+creation, defending and keeper quality do not enter this objective. This is neither
+a strongest-XI recommendation nor a complete Pareto frontier.
+[Hard-floor query contract](docs/research/XI-PROGRESSION-UNDER-FLOORS.md)
 
 Most football analytics projects ask what statistics they can calculate.
 Galáctico first asks whether the statistic means what its name implies.

diff --git a/KNOWN_LIMITATIONS.md b/KNOWN_LIMITATIONS.md
@@ -42,7 +42,7 @@ When a limitation changes, preserve the experiment in `docs/research/`.
 
 ## XI Lab is a conditional requirement model
 
-- The objective minimizes declared structural shortfalls. It does not maximize
+- The default objective minimizes declared structural shortfalls. It does not maximize
   wins, forecast the counterfactual result or identify universal football quality.
 - Madrid slot eligibility is a versioned manual rule. No player-by-role uplift,
   learned formation inference, pair chemistry or continuity value enters the solve.
@@ -71,6 +71,15 @@ When a limitation changes, preserve the experiment in `docs/research/`.
   identical raw requirement values or football value. Sequential diversity cuts
   do not enumerate all optima or find the largest possible diverse set. Search
   timeouts are incomplete, not evidence that no more alternatives exist.
+- The separate hard-floor query maximizes historical positive-pass xT only, not
+  football quality or team output. It can omit famous finishers or defensive players
+  because those functions are absent from its objective. A maximum is not a
+  Pareto-frontier certificate; larger side-origin counts are not merit.
+- Its conservative floor rounding guarantees raw-floor satisfaction for returned
+  assignments but can reject raw-feasible boundary XIs. INFEASIBLE and OPTIMAL
+  concern that integer model, not the full unquantized problem. The numerical
+  rounding allowance is not statistical uncertainty; no stability bands transfer
+  from the main pitch to this separate response.
 - Joint evidence availability is restrictive: E-07's temporal forecast study had
   only 3 eligible development lineups when all ten outfield starters had to meet
   the 900-minute floor. No forecast model could be fitted under the frozen rules.

diff --git a/VALIDATION.md b/VALIDATION.md
@@ -6,7 +6,24 @@ below distinguish correctness, measurement validity and decision usefulness.
 
 ## Current release evidence
 
-Equivalent-XI exploration is verified with **308 local Python tests** and **12
+The progression-under-hard-floors release passed **374 local Python tests** and
+**13 Playwright tests** on 20 September. Ruff and the licensing guard passed.
+Independent exhaustive enumeration checks 36 randomized assignments plus exact
+rounding boundaries, tightening-floor monotonicity, locks and missing measurements.
+A fresh agent independently ran 37 core/oracle tests and found no remaining release
+blocker. Real Madrid checks recover a lower attainable progression sum at tighter
+side floors, then infeasibility; this validates accounting behavior, not football
+quality. No E-08 model or utility coefficient is promoted.
+
+The actual browser checks the response-owned XI, exact floor values, impossible
+requests, and stale replies after both floor edits and locks. The main pitch stays
+unchanged. Desktop and 390px screenshots were manually inspected; displayed
+certificate values are rounded, with exact values retained in provenance. Review
+repaired stale inherited certificates and JSON-overflow error handling. Numerical
+rounding allowances are explicitly not statistical uncertainty. See the
+[method and test contract](docs/research/XI-PROGRESSION-UNDER-FLOORS.md).
+
+The preceding equivalent-XI release was verified with **308 local Python tests** and **12
 Playwright tests** across all three labs. New independent brute-force cases check
 both lexicographic objectives, pairwise personnel diversity, conditional exhaustion,
 deadline/status honesty and isolation from bootstrap/tie analysis. API tests retain

diff --git a/ROADMAP.md b/ROADMAP.md
@@ -59,6 +59,10 @@ shortfall, not a universally best XI.
   The browser's 12-world bands are exploratory, not calibrated selection chances.
 - Independent exhaustive tiny-instance oracle, synthetic failure cases,
   temporal leakage checks and real browser coverage.
+- Personnel-diverse equivalent-XI witnesses inside the certified shortfall optimum.
+- Separate progression-under-explicit-hard-floors query, with conservative floor
+  quantization and its own maximizing certificate. No inherited bootstrap/core or
+  Pareto claim. [Contract](docs/research/XI-PROGRESSION-UNDER-FLOORS.md).
 
 The May 6 snapshot has 16 eligible players under manual football rules and sample
 gates. Fitness/suspension availability is unknown. Only progression and experimental
@@ -81,7 +85,7 @@ aid, not evidence of superior selection. See [E-06](docs/research/E-06-lineup-re
 
 ## Not started or not validated
 
-- Pareto alternatives, robust/CVaR/minimax-regret modes, continuity utility,
+- Certified Pareto-frontier enumeration, robust/CVaR/minimax-regret modes, continuity utility,
   role-transition value models and automatic formation identification.
 - External lineup-utility validation, team-outcome association and forced-change
   quasi-experiments. No backtest observes the unplayed counterfactual XI.

diff --git a/docs/research/XI-PROGRESSION-UNDER-FLOORS.md b/docs/research/XI-PROGRESSION-UNDER-FLOORS.md
@@ -141,5 +141,9 @@ Adversarial review found and repaired inherited provenance: prior solve certific
 are retained only as source input, not exposed as claims about this new query.
 The full-release run evidence belongs in [VALIDATION](../../VALIDATION.md).
 
+![Actual progression-under-floors query](../screenshots/15-xi-hard-floor-query.png)
+
+[390px mobile capture](../screenshots/16-xi-hard-floor-mobile.png).
+
 E-08 remains closed at its published context-only result. No learned coefficient,
 retuning, lower product evidence gate or predictive promotion enters this query.
